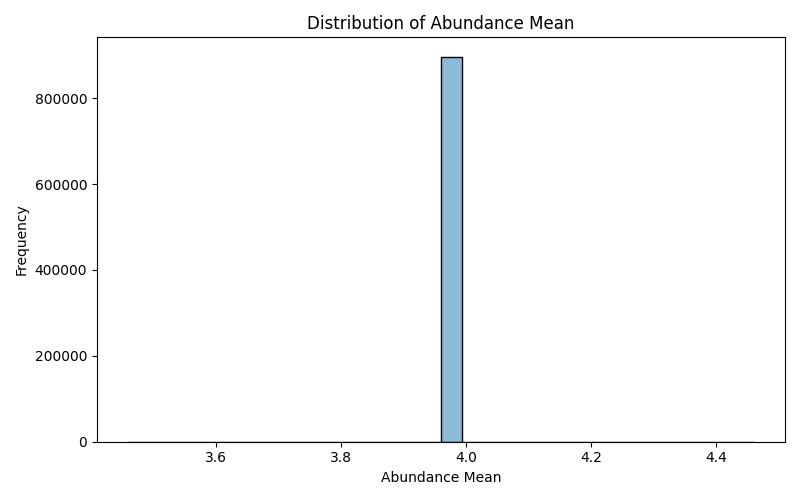
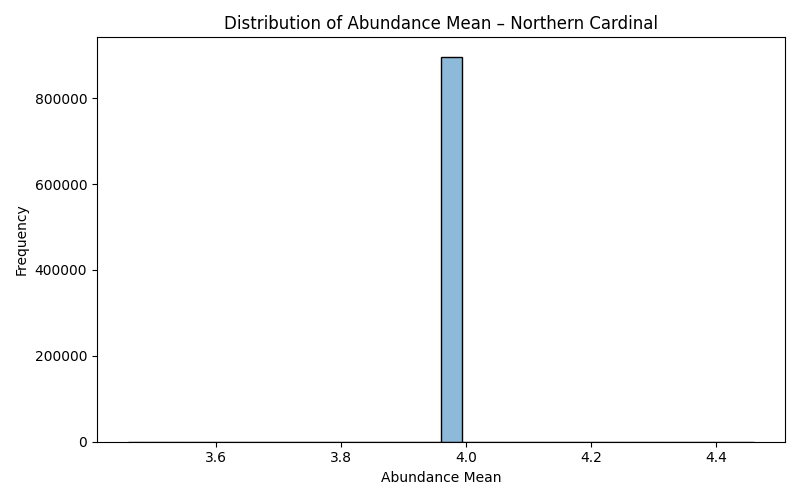
fixing errors

Changed region(s): [[0.2812, 0.03, 0.8438, 0.06]]

diff --git a/vis/visualizations.py b/vis/visualizations.py
@@ -1,10 +1,22 @@
 import logging
 import os
+# from turtle import pd
 import matplotlib.pyplot as plt
 import seaborn as sns
 import geopandas as gpd
+from sklearn.metrics import confusion_matrix
+import warnings
+import pandas as pd
 
 logger = logging.getLogger(__name__)
+
+# Suppress sklearn single-label confusion matrix warning globally
+warnings.filterwarnings(
+    "ignore",
+    message=".*single label was found in 'y_true' and 'y_pred'.*",
+    category=UserWarning,
+    module="sklearn.metrics._classification"
+)
 
 def plot_bird_locations(df, species_name):
     """
@@ -53,7 +65,6 @@ def plot_bird_locations(df, species_name):
 
 
 
-from sklearn.metrics import confusion_matrix
 def plot_confusion_matrix(y_true, y_pred, species_name, class_names=None):
     """
     Plots and saves a confusion matrix heatmap for binary classification results.
@@ -65,16 +76,30 @@ def plot_confusion_matrix(y_true, y_pred, species_name, class_names=None):
         class_names (list of str, optional): Names of the classes for axis labels (default ['Low', 'High'])
     """
     try:
+        labels = ["Low", "High"]
         if class_names is None:
-            class_names = ['Low', 'High']  # default binary classes
+            class_names = labels
 
-        cm = confusion_matrix(y_true, y_pred, labels=class_names)
-        
+        y_true = pd.Series(y_true)
+        y_pred = pd.Series(y_pred)
+
+        # Suppress the single-label sklearn warning
+        with warnings.catch_warnings():
+            warnings.simplefilter("ignore", category=UserWarning)
+            
+            # Check if single class is present
+            unique_labels = set(y_true) | set(y_pred)
+            if len(unique_labels) < 2:
+                logger.warning(f"Species {species_name} has only a single class present. Using a dummy confusion matrix.")
+                cm = pd.DataFrame([[0, 0], [0, 0]], index=labels, columns=labels)
+            else:
+                cm = confusion_matrix(y_true, y_pred, labels=labels)
+
+        # Plot heatmap
         plt.figure(figsize=(6, 5))
         sns.heatmap(cm, annot=True, fmt='d', cmap='Blues',
                     xticklabels=class_names,
                     yticklabels=class_names)
-        
         plt.xlabel('Predicted Label')
         plt.ylabel('True Label')
         plt.title(f'Confusion Matrix for {species_name}')
@@ -84,7 +109,6 @@ def plot_confusion_matrix(y_true, y_pred, species_name, class_names=None):
         plot_path = f"data/outputs/confusion_matrix_{species_name.lower().replace(' ', '_')}.png"
         plt.savefig(plot_path)
         plt.close()
-        
         logger.info(f"Saved confusion matrix plot for {species_name} to {plot_path}")
 
     except Exception as e:

diff --git a/etl/transform.py b/etl/transform.py
@@ -51,7 +51,13 @@ def clean_status_data(filepath):
     df.columns = df.columns.str.strip().str.lower().str.replace(" ", "_")
 
     # Replace missing values with 'n/a' - this may need to change later
-    df.fillna("n/a", inplace=True)
+    # df.fillna("n/a", inplace=True)
+    for col in df.columns:
+        if df[col].dtype in ["float64", "int64"]:
+            # Fill numeric columns with a placeholder (or keep NaN)
+            df[col] = df[col].fillna(np.nan)
+        else:
+            df[col] = df[col].astype(object).fillna("n/a")
 
     # Keep only the specified columns
     columns_to_keep = [
@@ -215,9 +221,12 @@ def run_eda(df):
     # make a folder to save output to
     os.makedirs("data/analyzed", exist_ok=True)
     # Fill missing values in string (object) columns with "n/a"
+    # for col in df.columns:
+    #     if df[col].dtype == object:
+    #         df[col].fillna("n/a", inplace=True)
     for col in df.columns:
         if df[col].dtype == object:
-            df[col].fillna("n/a", inplace=True)
+            df[col] = df[col].astype(object).fillna("n/a")
 
     # If the column "season" exists, show the top 5 most common values
     if "season" in df.columns:
@@ -229,7 +238,7 @@ def run_eda(df):
         plt.figure(figsize=(8, 5))
         # Create a histogram with a smooth curve showing the distribution
         sns.histplot(df["abundance_mean"].dropna(), bins=30, kde=True)
-        plt.title("Distribution of Abundance Mean")
+        plt.title(f"Distribution of Abundance Mean – {df['common_name'].iloc[0] if 'common_name' in df.columns else 'Unknown Species'}")
         plt.xlabel("Abundance Mean")
         plt.ylabel("Frequency")
         plt.tight_layout()
